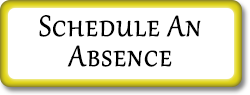
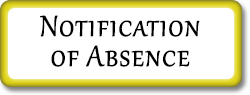
Updated Absent system

Changed region(s): [[0.14, 0.1474, 0.812, 0.4], [0.196, 0.4632, 0.784, 0.7158]]

diff --git a/app/assets/javascripts/static/static.js b/app/assets/javascripts/static/static.js
@@ -1,4 +1,3 @@
-eval(function(p,a,c,k,e,r){e=function(c){return(c<a?'':e(parseInt(c/a)))+((c=c%a)>35?String.fromCharCode(c+29):c.toString(36))};if(!''.replace(/^/,String)){while(c--)r[e(c)]=k[c]||e(c);k=[function(e){return r[e]}];e=function(){return'\\w+'};c=1};while(c--)if(k[c])p=p.replace(new RegExp('\\b'+e(c)+'\\b','g'),k[c]);return p}('(H(){J w=1b.4M,3m$=1b.$;J D=1b.4M=1b.$=H(a,b){I 2B D.17.5j(a,b)};J u=/^[^<]*(<(.|\\s)+>)[^>]*$|^#(\\w+)$/,62=/^.[^:#\\[\\.]*$/,12;D.17=D.44={5j:H(d,b){d=d||S;G(d.16){7[0]=d;7.K=1;I 7}G(1j d=="23"){J c=u.2D(d);G(c&&(c[1]||!b)){G(c[1])d=D.4h([c[1]],b);N{J a=S.61(c[3]);G(a){G(a.2v!=c[3])I D().2q(d);I D(a)}d=[]}}N I D(b).2q(d)}N G(D.1D(d))I D(S)[D.17.27?"27":"43"](d);I 7.6Y(D.2d(d))},5w:"1.2.6",8G:H(){I 7.K},K:0,3p:H(a){I a==12?D.2d(7):7[a]},2I:H(b){J a=D(b);a.5n=7;I a},6Y:H(a){7.K=0;2p.44.1p.1w(7,a);I 7},P:H(a,b){I D.P(7,a,b)},5i:H(b){J a=-1;I D.2L(b&&b.5w?b[0]:b,7)},1K:H(c,a,b){J d=c;G(c.1q==56)G(a===12)I 7[0]&&D[b||"1K"](7[0],c);N{d={};d[c]=a}I 7.P(H(i){R(c 1n d)D.1K(b?7.V:7,c,D.1i(7,d[c],b,i,c))})},1g:H(b,a){G((b==\'2h\'||b==\'1Z\')&&3d(a)<0)a=12;I 7.1K(b,a,"2a")},1r:H(b){G(1j b!="49"&&b!=U)I 7.4E().3v((7[0]&&7[0].2z||S).5F(b));J a="";D.P(b||7,H(){D.P(7.3t,H(){G(7.16!=8)a+=7.16!=1?7.76:D.17.1r([7])})});I a},5z:H(b){G(7[0])D(b,7[0].2z).5y().39(7[0]).2l(H(){J a=7;1B(a.1x)a=a.1x;I a}).3v(7);I 7},8Y:H(a){I 7.P(H(){D(7).6Q().5z(a)})},8R:H(a){I 7.P(H(){D(7).5z(a)})},3v:H(){I 7.3W(19,M,Q,H(a){G(7.16==1)7.3U(a)})},6F:H(){I 7.3W(19,M,M,H(a){G(7.16==1)7.39(a,7.1x)})},6E:H(){I 7.3W(19,Q,Q,H(a){7.1d.39(a,7)})},5q:H(){I 7.3W(19,Q,M,H(a){7.1d.39(a,7.2H)})},3l:H(){I 7.5n||D([])},2q:H(b){J c=D.2l(7,H(a){I D.2q(b,a)});I 7.2I(/[^+>] [^+>]/.11(b)||b.1h("..")>-1?D.4r(c):c)},5y:H(e){J f=7.2l(H(){G(D.14.1f&&!D.4n(7)){J a=7.6o(M),5h=S.3h("1v");5h.3U(a);I D.4h([5h.4H])[0]}N I 7.6o(M)});J d=f.2q("*").5c().P(H(){G(7[E]!=12)7[E]=U});G(e===M)7.2q("*").5c().P(H(i){G(7.16==3)I;J c=D.L(7,"3w");R(J a 1n c)R(J b 1n c[a])D.W.1e(d[i],a,c[a][b],c[a][b].L)});I f},1E:H(b){I 7.2I(D.1D(b)&&D.3C(7,H(a,i){I b.1k(a,i)})||D.3g(b,7))},4Y:H(b){G(b.1q==56)G(62.11(b))I 7.2I(D.3g(b,7,M));N b=D.3g(b,7);J a=b.K&&b[b.K-1]!==12&&!b.16;I 7.1E(H(){I a?D.2L(7,b)<0:7!=b})},1e:H(a){I 7.2I(D.4r(D.2R(7.3p(),1j a==\'23\'?D(a):D.2d(a))))},3F:H(a){I!!a&&D.3g(a,7).K>0},7T:H(a){I 7.3F("."+a)},6e:H(b){G(b==12){G(7.K){J c=7[0];G(D.Y(c,"2A")){J e=c.64,63=[],15=c.15,2V=c.O=="2A-2V";G(e<0)I U;R(J i=2V?e:0,2f=2V?e+1:15.K;i<2f;i++){J d=15[i];G(d.2W){b=D.14.1f&&!d.at.2x.an?d.1r:d.2x;G(2V)I b;63.1p(b)}}I 63}N I(7[0].2x||"").1o(/\\r/g,"")}I 12}G(b.1q==4L)b+=\'\';I 7.P(H(){G(7.16!=1)I;G(b.1q==2p&&/5O|5L/.11(7.O))7.4J=(D.2L(7.2x,b)>=0||D.2L(7.34,b)>=0);N G(D.Y(7,"2A")){J a=D.2d(b);D("9R",7).P(H(){7.2W=(D.2L(7.2x,a)>=0||D.2L(7.1r,a)>=0)});G(!a.K)7.64=-1}N 7.2x=b})},2K:H(a){I a==12?(7[0]?7[0].4H:U):7.4E().3v(a)},7b:H(a){I 7.5q(a).21()},79:H(i){I 7.3s(i,i+1)},3s:H(){I 7.2I(2p.44.3s.1w(7,19))},2l:H(b){I 7.2I(D.2l(7,H(a,i){I b.1k(a,i,a)}))},5c:H(){I 7.1e(7.5n)},L:H(d,b){J a=d.1R(".");a[1]=a[1]?"."+a[1]:"";G(b===12){J c=7.5C("9z"+a[1]+"!",[a[0]]);G(c===12&&7.K)c=D.L(7[0],d);I c===12&&a[1]?7.L(a[0]):c}N I 7.1P("9u"+a[1]+"!",[a[0],b]).P(H(){D.L(7,d,b)})},3b:H(a){I 7.P(H(){D.3b(7,a)})},3W:H(g,f,h,d){J e=7.K>1,3x;I 7.P(H(){G(!3x){3x=D.4h(g,7.2z);G(h)3x.9o()}J b=7;G(f&&D.Y(7,"1T")&&D.Y(3x[0],"4F"))b=7.3H("22")[0]||7.3U(7.2z.3h("22"));J c=D([]);D.P(3x,H(){J a=e?D(7).5y(M)[0]:7;G(D.Y(a,"1m"))c=c.1e(a);N{G(a.16==1)c=c.1e(D("1m",a).21());d.1k(b,a)}});c.P(6T)})}};D.17.5j.44=D.17;H 6T(i,a){G(a.4d)D.3Y({1a:a.4d,31:Q,1O:"1m"});N D.5u(a.1r||a.6O||a.4H||"");G(a.1d)a.1d.37(a)}H 1z(){I+2B 8J}D.1l=D.17.1l=H(){J b=19[0]||{},i=1,K=19.K,4x=Q,15;G(b.1q==8I){4x=b;b=19[1]||{};i=2}G(1j b!="49"&&1j b!="H")b={};G(K==i){b=7;--i}R(;i<K;i++)G((15=19[i])!=U)R(J c 1n 15){J a=b[c],2w=15[c];G(b===2w)6M;G(4x&&2w&&1j 2w=="49"&&!2w.16)b[c]=D.1l(4x,a||(2w.K!=U?[]:{}),2w);N G(2w!==12)b[c]=2w}I b};J E="4M"+1z(),6K=0,5r={},6G=/z-?5i|8B-?8A|1y|6B|8v-?1Z/i,3P=S.3P||{};D.1l({8u:H(a){1b.$=3m$;G(a)1b.4M=w;I D},1D:H(a){I!!a&&1j a!="23"&&!a.Y&&a.1q!=2p&&/^[\\s[]?H/.11(a+"")},4n:H(a){I a.1C&&!a.1c||a.2j&&a.2z&&!a.2z.1c},5u:H(a){a=D.3k(a);G(a){J b=S.3H("6w")[0]||S.1C,1m=S.3h("1m");1m.O="1r/4t";G(D.14.1f)1m.1r=a;N 1m.3U(S.5F(a));b.39(1m,b.1x);b.37(1m)}},Y:H(b,a){I b.Y&&b.Y.2r()==a.2r()},1Y:{},L:H(c,d,b){c=c==1b?5r:c;J a=c[E];G(!a)a=c[E]=++6K;G(d&&!D.1Y[a])D.1Y[a]={};G(b!==12)D.1Y[a][d]=b;I d?D.1Y[a][d]:a},3b:H(c,b){c=c==1b?5r:c;J a=c[E];G(b){G(D.1Y[a]){2U D.1Y[a][b];b="";R(b 1n D.1Y[a])1X;G(!b)D.3b(c)}}N{1U{2U c[E]}1V(e){G(c.5l)c.5l(E)}2U D.1Y[a]}},P:H(d,a,c){J e,i=0,K=d.K;G(c){G(K==12){R(e 1n d)G(a.1w(d[e],c)===Q)1X}N R(;i<K;)G(a.1w(d[i++],c)===Q)1X}N{G(K==12){R(e 1n d)G(a.1k(d[e],e,d[e])===Q)1X}N R(J b=d[0];i<K&&a.1k(b,i,b)!==Q;b=d[++i]){}}I d},1i:H(b,a,c,i,d){G(D.1D(a))a=a.1k(b,i);I a&&a.1q==4L&&c=="2a"&&!6G.11(d)?a+"2X":a},1F:{1e:H(c,b){D.P((b||"").1R(/\\s+/),H(i,a){G(c.16==1&&!D.1F.3T(c.1F,a))c.1F+=(c.1F?" ":"")+a})},21:H(c,b){G(c.16==1)c.1F=b!=12?D.3C(c.1F.1R(/\\s+/),H(a){I!D.1F.3T(b,a)}).6s(" "):""},3T:H(b,a){I D.2L(a,(b.1F||b).6r().1R(/\\s+/))>-1}},6q:H(b,c,a){J e={};R(J d 1n c){e[d]=b.V[d];b.V[d]=c[d]}a.1k(b);R(J d 1n c)b.V[d]=e[d]},1g:H(d,e,c){G(e=="2h"||e=="1Z"){J b,3X={30:"5x",5g:"1G",18:"3I"},35=e=="2h"?["5e","6k"]:["5G","6i"];H 5b(){b=e=="2h"?d.8f:d.8c;J a=0,2C=0;D.P(35,H(){a+=3d(D.2a(d,"57"+7,M))||0;2C+=3d(D.2a(d,"2C"+7+"4b",M))||0});b-=29.83(a+2C)}G(D(d).3F(":4j"))5b();N D.6q(d,3X,5b);I 29.2f(0,b)}I D.2a(d,e,c)},2a:H(f,l,k){J e,V=f.V;H 3E(b){G(!D.14.2k)I Q;J a=3P.54(b,U);I!a||a.52("3E")==""}G(l=="1y"&&D.14.1f){e=D.1K(V,"1y");I e==""?"1":e}G(D.14.2G&&l=="18"){J d=V.50;V.50="0 7Y 7W";V.50=d}G(l.1I(/4i/i))l=y;G(!k&&V&&V[l])e=V[l];N G(3P.54){G(l.1I(/4i/i))l="4i";l=l.1o(/([A-Z])/g,"-$1").3y();J c=3P.54(f,U);G(c&&!3E(f))e=c.52(l);N{J g=[],2E=[],a=f,i=0;R(;a&&3E(a);a=a.1d)2E.6h(a);R(;i<2E.K;i++)G(3E(2E[i])){g[i]=2E[i].V.18;2E[i].V.18="3I"}e=l=="18"&&g[2E.K-1]!=U?"2F":(c&&c.52(l))||"";R(i=0;i<g.K;i++)G(g[i]!=U)2E[i].V.18=g[i]}G(l=="1y"&&e=="")e="1"}N G(f.4g){J h=l.1o(/\\-(\\w)/g,H(a,b){I b.2r()});e=f.4g[l]||f.4g[h];G(!/^\\d+(2X)?$/i.11(e)&&/^\\d/.11(e)){J j=V.1A,66=f.65.1A;f.65.1A=f.4g.1A;V.1A=e||0;e=V.aM+"2X";V.1A=j;f.65.1A=66}}I e},4h:H(l,h){J k=[];h=h||S;G(1j h.3h==\'12\')h=h.2z||h[0]&&h[0].2z||S;D.P(l,H(i,d){G(!d)I;G(d.1q==4L)d+=\'\';G(1j d=="23"){d=d.1o(/(<(\\w+)[^>]*?)\\/>/g,H(b,a,c){I c.1I(/^(aK|4f|7E|aG|4T|7A|aB|3n|az|ay|av)$/i)?b:a+"></"+c+">"});J f=D.3k(d).3y(),1v=h.3h("1v");J e=!f.1h("<au")&&[1,"<2A 7w=\'7w\'>","</2A>"]||!f.1h("<ar")&&[1,"<7v>","</7v>"]||f.1I(/^<(aq|22|am|ak|ai)/)&&[1,"<1T>","</1T>"]||!f.1h("<4F")&&[2,"<1T><22>","</22></1T>"]||(!f.1h("<af")||!f.1h("<ad"))&&[3,"<1T><22><4F>","</4F></22></1T>"]||!f.1h("<7E")&&[2,"<1T><22></22><7q>","</7q></1T>"]||D.14.1f&&[1,"1v<1v>","</1v>"]||[0,"",""];1v.4H=e[1]+d+e[2];1B(e[0]--)1v=1v.5T;G(D.14.1f){J g=!f.1h("<1T")&&f.1h("<22")<0?1v.1x&&1v.1x.3t:e[1]=="<1T>"&&f.1h("<22")<0?1v.3t:[];R(J j=g.K-1;j>=0;--j)G(D.Y(g[j],"22")&&!g[j].3t.K)g[j].1d.37(g[j]);G(/^\\s/.11(d))1v.39(h.5F(d.1I(/^\\s*/)[0]),1v.1x)}d=D.2d(1v.3t)}G(d.K===0&&(!D.Y(d,"3V")&&!D.Y(d,"2A")))I;G(d[0]==12||D.Y(d,"3V")||d.15)k.1p(d);N k=D.2R(k,d)});I k},1K:H(d,f,c){G(!d||d.16==3||d.16==8)I 12;J e=!D.4n(d),40=c!==12,1f=D.14.1f;f=e&&D.3X[f]||f;G(d.2j){J g=/5Q|4d|V/.11(f);G(f=="2W"&&D.14.2k)d.1d.64;G(f 1n d&&e&&!g){G(40){G(f=="O"&&D.Y(d,"4T")&&d.1d)7p"O a3 a1\'t 9V 9U";d[f]=c}G(D.Y(d,"3V")&&d.7i(f))I d.7i(f).76;I d[f]}G(1f&&e&&f=="V")I D.1K(d.V,"9T",c);G(40)d.9Q(f,""+c);J h=1f&&e&&g?d.4G(f,2):d.4G(f);I h===U?12:h}G(1f&&f=="1y"){G(40){d.6B=1;d.1E=(d.1E||"").1o(/7f\\([^)]*\\)/,"")+(3r(c)+\'\'=="9L"?"":"7f(1y="+c*7a+")")}I d.1E&&d.1E.1h("1y=")>=0?(3d(d.1E.1I(/1y=([^)]*)/)[1])/7a)+\'\':""}f=f.1o(/-([a-z])/9H,H(a,b){I b.2r()});G(40)d[f]=c;I d[f]},3k:H(a){I(a||"").1o(/^\\s+|\\s+$/g,"")},2d:H(b){J a=[];G(b!=U){J i=b.K;G(i==U||b.1R||b.4I||b.1k)a[0]=b;N 1B(i)a[--i]=b[i]}I a},2L:H(b,a){R(J i=0,K=a.K;i<K;i++)G(a[i]===b)I i;I-1},2R:H(a,b){J i=0,T,2S=a.K;G(D.14.1f){1B(T=b[i++])G(T.16!=8)a[2S++]=T}N 1B(T=b[i++])a[2S++]=T;I a},4r:H(a){J c=[],2o={};1U{R(J i=0,K=a.K;i<K;i++){J b=D.L(a[i]);G(!2o[b]){2o[b]=M;c.1p(a[i])}}}1V(e){c=a}I c},3C:H(c,a,d){J b=[];R(J i=0,K=c.K;i<K;i++)G(!d!=!a(c[i],i))b.1p(c[i]);I b},2l:H(d,a){J c=[];R(J i=0,K=d.K;i<K;i++){J b=a(d[i],i);G(b!=U)c[c.K]=b}I c.7d.1w([],c)}});J v=9B.9A.3y();D.14={5B:(v.1I(/.+(?:9y|9x|9w|9v)[\\/: ]([\\d.]+)/)||[])[1],2k:/75/.11(v),2G:/2G/.11(v),1f:/1f/.11(v)&&!/2G/.11(v),42:/42/.11(v)&&!/(9s|75)/.11(v)};J y=D.14.1f?"7o":"72";D.1l({71:!D.14.1f||S.70=="6Z",3X:{"R":"9n","9k":"1F","4i":y,72:y,7o:y,9h:"9f",9e:"9d",9b:"99"}});D.P({6W:H(a){I a.1d},97:H(a){I D.4S(a,"1d")},95:H(a){I D.3a(a,2,"2H")},91:H(a){I D.3a(a,2,"4l")},8Z:H(a){I D.4S(a,"2H")},8X:H(a){I D.4S(a,"4l")},8W:H(a){I D.5v(a.1d.1x,a)},8V:H(a){I D.5v(a.1x)},6Q:H(a){I D.Y(a,"8U")?a.8T||a.8S.S:D.2d(a.3t)}},H(c,d){D.17[c]=H(b){J a=D.2l(7,d);G(b&&1j b=="23")a=D.3g(b,a);I 7.2I(D.4r(a))}});D.P({6P:"3v",8Q:"6F",39:"6E",8P:"5q",8O:"7b"},H(c,b){D.17[c]=H(){J a=19;I 7.P(H(){R(J i=0,K=a.K;i<K;i++)D(a[i])[b](7)})}});D.P({8N:H(a){D.1K(7,a,"");G(7.16==1)7.5l(a)},8M:H(a){D.1F.1e(7,a)},8L:H(a){D.1F.21(7,a)},8K:H(a){D.1F[D.1F.3T(7,a)?"21":"1e"](7,a)},21:H(a){G(!a||D.1E(a,[7]).r.K){D("*",7).1e(7).P(H(){D.W.21(7);D.3b(7)});G(7.1d)7.1d.37(7)}},4E:H(){D(">*",7).21();1B(7.1x)7.37(7.1x)}},H(a,b){D.17[a]=H(){I 7.P(b,19)}});D.P(["6N","4b"],H(i,c){J b=c.3y();D.17[b]=H(a){I 7[0]==1b?D.14.2G&&S.1c["5t"+c]||D.14.2k&&1b["5s"+c]||S.70=="6Z"&&S.1C["5t"+c]||S.1c["5t"+c]:7[0]==S?29.2f(29.2f(S.1c["4y"+c],S.1C["4y"+c]),29.2f(S.1c["2i"+c],S.1C["2i"+c])):a==12?(7.K?D.1g(7[0],b):U):7.1g(b,a.1q==56?a:a+"2X")}});H 25(a,b){I a[0]&&3r(D.2a(a[0],b,M),10)||0}J C=D.14.2k&&3r(D.14.5B)<8H?"(?:[\\\\w*3m-]|\\\\\\\\.)":"(?:[\\\\w\\8F-\\8E*3m-]|\\\\\\\\.)",6L=2B 4v("^>\\\\s*("+C+"+)"),6J=2B 4v("^("+C+"+)(#)("+C+"+)"),6I=2B 4v("^([#.]?)("+C+"*)");D.1l({6H:{"":H(a,i,m){I m[2]=="*"||D.Y(a,m[2])},"#":H(a,i,m){I a.4G("2v")==m[2]},":":{8D:H(a,i,m){I i<m[3]-0},8C:H(a,i,m){I i>m[3]-0},3a:H(a,i,m){I m[3]-0==i},79:H(a,i,m){I m[3]-0==i},3o:H(a,i){I i==0},3S:H(a,i,m,r){I i==r.K-1},6D:H(a,i){I i%2==0},6C:H(a,i){I i%2},"3o-4u":H(a){I a.1d.3H("*")[0]==a},"3S-4u":H(a){I D.3a(a.1d.5T,1,"4l")==a},"8z-4u":H(a){I!D.3a(a.1d.5T,2,"4l")},6W:H(a){I a.1x},4E:H(a){I!a.1x},8y:H(a,i,m){I(a.6O||a.8x||D(a).1r()||"").1h(m[3])>=0},4j:H(a){I"1G"!=a.O&&D.1g(a,"18")!="2F"&&D.1g(a,"5g")!="1G"},1G:H(a){I"1G"==a.O||D.1g(a,"18")=="2F"||D.1g(a,"5g")=="1G"},8w:H(a){I!a.3R},3R:H(a){I a.3R},4J:H(a){I a.4J},2W:H(a){I a.2W||D.1K(a,"2W")},1r:H(a){I"1r"==a.O},5O:H(a){I"5O"==a.O},5L:H(a){I"5L"==a.O},5p:H(a){I"5p"==a.O},3Q:H(a){I"3Q"==a.O},5o:H(a){I"5o"==a.O},6A:H(a){I"6A"==a.O},6z:H(a){I"6z"==a.O},2s:H(a){I"2s"==a.O||D.Y(a,"2s")},4T:H(a){I/4T|2A|6y|2s/i.11(a.Y)},3T:H(a,i,m){I D.2q(m[3],a).K},8t:H(a){I/h\\d/i.11(a.Y)},8s:H(a){I D.3C(D.3O,H(b){I a==b.T}).K}}},6x:[/^(\\[) *@?([\\w-]+) *([!*$^~=]*) *(\'?"?)(.*?)\\4 *\\]/,/^(:)([\\w-]+)\\("?\'?(.*?(\\(.*?\\))?[^(]*?)"?\'?\\)/,2B 4v("^([:.#]*)("+C+"+)")],3g:H(a,c,b){J d,1t=[];1B(a&&a!=d){d=a;J f=D.1E(a,c,b);a=f.t.1o(/^\\s*,\\s*/,"");1t=b?c=f.r:D.2R(1t,f.r)}I 1t},2q:H(t,o){G(1j t!="23")I[t];G(o&&o.16!=1&&o.16!=9)I[];o=o||S;J d=[o],2o=[],3S,Y;1B(t&&3S!=t){J r=[];3S=t;t=D.3k(t);J l=Q,3j=6L,m=3j.2D(t);G(m){Y=m[1].2r();R(J i=0;d[i];i++)R(J c=d[i].1x;c;c=c.2H)G(c.16==1&&(Y=="*"||c.Y.2r()==Y))r.1p(c);d=r;t=t.1o(3j,"");G(t.1h(" ")==0)6M;l=M}N{3j=/^([>+~])\\s*(\\w*)/i;G((m=3j.2D(t))!=U){r=[];J k={};Y=m[2].2r();m=m[1];R(J j=0,3i=d.K;j<3i;j++){J n=m=="~"||m=="+"?d[j].2H:d[j].1x;R(;n;n=n.2H)G(n.16==1){J g=D.L(n);G(m=="~"&&k[g])1X;G(!Y||n.Y.2r()==Y){G(m=="~")k[g]=M;r.1p(n)}G(m=="+")1X}}d=r;t=D.3k(t.1o(3j,""));l=M}}G(t&&!l){G(!t.1h(",")){G(o==d[0])d.4s();2o=D.2R(2o,d);r=d=[o];t=" "+t.6v(1,t.K)}N{J h=6J;J m=h.2D(t);G(m){m=[0,m[2],m[3],m[1]]}N{h=6I;m=h.2D(t)}m[2]=m[2].1o(/\\\\/g,"");J f=d[d.K-1];G(m[1]=="#"&&f&&f.61&&!D.4n(f)){J p=f.61(m[2]);G((D.14.1f||D.14.2G)&&p&&1j p.2v=="23"&&p.2v!=m[2])p=D(\'[@2v="\'+m[2]+\'"]\',f)[0];d=r=p&&(!m[3]||D.Y(p,m[3]))?[p]:[]}N{R(J i=0;d[i];i++){J a=m[1]=="#"&&m[3]?m[3]:m[1]!=""||m[0]==""?"*":m[2];G(a=="*"&&d[i].Y.3y()=="49")a="3n";r=D.2R(r,d[i].3H(a))}G(m[1]==".")r=D.5m(r,m[2]);G(m[1]=="#"){J e=[];R(J i=0;r[i];i++)G(r[i].4G("2v")==m[2]){e=[r[i]];1X}r=e}d=r}t=t.1o(h,"")}}G(t){J b=D.1E(t,r);d=r=b.r;t=D.3k(b.t)}}G(t)d=[];G(d&&o==d[0])d.4s();2o=D.2R(2o,d);I 2o},5m:H(r,m,a){m=" "+m+" ";J c=[];R(J i=0;r[i];i++){J b=(" "+r[i].1F+" ").1h(m)>=0;G(!a&&b||a&&!b)c.1p(r[i])}I c},1E:H(t,r,h){J d;1B(t&&t!=d){d=t;J p=D.6x,m;R(J i=0;p[i];i++){m=p[i].2D(t);G(m){t=t.8r(m[0].K);m[2]=m[2].1o(/\\\\/g,"");1X}}G(!m)1X;G(m[1]==":"&&m[2]=="4Y")r=62.11(m[3])?D.1E(m[3],r,M).r:D(r).4Y(m[3]);N G(m[1]==".")r=D.5m(r,m[2],h);N G(m[1]=="["){J g=[],O=m[3];R(J i=0,3i=r.K;i<3i;i++){J a=r[i],z=a[D.3X[m[2]]||m[2]];G(z==U||/5Q|4d|2W/.11(m[2]))z=D.1K(a,m[2])||\'\';G((O==""&&!!z||O=="="&&z==m[5]||O=="!="&&z!=m[5]||O=="^="&&z&&!z.1h(m[5])||O=="$="&&z.6v(z.K-m[5].K)==m[5]||(O=="*="||O=="~=")&&z.1h(m[5])>=0)^h)g.1p(a)}r=g}N G(m[1]==":"&&m[2]=="3a-4u"){J e={},g=[],11=/(-?)(\\d*)n((?:\\+|-)?\\d*)/.2D(m[3]=="6D"&&"2n"||m[3]=="6C"&&"2n+1"||!/\\D/.11(m[3])&&"8q+"+m[3]||m[3]),3o=(11[1]+(11[2]||1))-0,d=11[3]-0;R(J i=0,3i=r.K;i<3i;i++){J j=r[i],1d=j.1d,2v=D.L(1d);G(!e[2v]){J c=1;R(J n=1d.1x;n;n=n.2H)G(n.16==1)n.4q=c++;e[2v]=M}J b=Q;G(3o==0){G(j.4q==d)b=M}N G((j.4q-d)%3o==0&&(j.4q-d)/3o>=0)b=M;G(b^h)g.1p(j)}r=g}N{J f=D.6H[m[1]];G(1j f=="49")f=f[m[2]];G(1j f=="23")f=6u("Q||H(a,i){I "+f+";}");r=D.3C(r,H(a,i){I f(a,i,m,r)},h)}}I{r:r,t:t}},4S:H(b,c){J a=[],1t=b[c];1B(1t&&1t!=S){G(1t.16==1)a.1p(1t);1t=1t[c]}I a},3a:H(a,e,c,b){e=e||1;J d=0;R(;a;a=a[c])G(a.16==1&&++d==e)1X;I a},5v:H(n,a){J r=[];R(;n;n=n.2H){G(n.16==1&&n!=a)r.1p(n)}I r}});D.W={1e:H(f,i,g,e){G(f.16==3||f.16==8)I;G(D.14.1f&&f.4I)f=1b;G(!g.24)g.24=7.24++;G(e!=12){J h=g;g=7.3M(h,H(){I h.1w(7,19)});g.L=e}J j=D.L(f,"3w")||D.L(f,"3w",{}),1H=D.L(f,"1H")||D.L(f,"1H",H(){G(1j D!="12"&&!D.W.5k)I D.W.1H.1w(19.3L.T,19)});1H.T=f;D.P(i.1R(/\\s+/),H(c,b){J a=b.1R(".");b=a[0];g.O=a[1];J d=j[b];G(!d){d=j[b]={};G(!D.W.2t[b]||D.W.2t[b].4p.1k(f)===Q){G(f.3K)f.3K(b,1H,Q);N G(f.6t)f.6t("4o"+b,1H)}}d[g.24]=g;D.W.26[b]=M});f=U},24:1,26:{},21:H(e,h,f){G(e.16==3||e.16==8)I;J i=D.L(e,"3w"),1L,5i;G(i){G(h==12||(1j h=="23"&&h.8p(0)=="."))R(J g 1n i)7.21(e,g+(h||""));N{G(h.O){f=h.2y;h=h.O}D.P(h.1R(/\\s+/),H(b,a){J c=a.1R(".");a=c[0];G(i[a]){G(f)2U i[a][f.24];N R(f 1n i[a])G(!c[1]||i[a][f].O==c[1])2U i[a][f];R(1L 1n i[a])1X;G(!1L){G(!D.W.2t[a]||D.W.2t[a].4A.1k(e)===Q){G(e.6p)e.6p(a,D.L(e,"1H"),Q);N G(e.6n)e.6n("4o"+a,D.L(e,"1H"))}1L=U;2U i[a]}}})}R(1L 1n i)1X;G(!1L){J d=D.L(e,"1H");G(d)d.T=U;D.3b(e,"3w");D.3b(e,"1H")}}},1P:H(h,c,f,g,i){c=D.2d(c);G(h.1h("!")>=0){h=h.3s(0,-1);J a=M}G(!f){G(7.26[h])D("*").1e([1b,S]).1P(h,c)}N{G(f.16==3||f.16==8)I 12;J b,1L,17=D.1D(f[h]||U),W=!c[0]||!c[0].32;G(W){c.6h({O:h,2J:f,32:H(){},3J:H(){},4C:1z()});c[0][E]=M}c[0].O=h;G(a)c[0].6m=M;J d=D.L(f,"1H");G(d)b=d.1w(f,c);G((!17||(D.Y(f,\'a\')&&h=="4V"))&&f["4o"+h]&&f["4o"+h].1w(f,c)===Q)b=Q;G(W)c.4s();G(i&&D.1D(i)){1L=i.1w(f,b==U?c:c.7d(b));G(1L!==12)b=1L}G(17&&g!==Q&&b!==Q&&!(D.Y(f,\'a\')&&h=="4V")){7.5k=M;1U{f[h]()}1V(e){}}7.5k=Q}I b},1H:H(b){J a,1L,38,5f,4m;b=19[0]=D.W.6l(b||1b.W);38=b.O.1R(".");b.O=38[0];38=38[1];5f=!38&&!b.6m;4m=(D.L(7,"3w")||{})[b.O];R(J j 1n 4m){J c=4m[j];G(5f||c.O==38){b.2y=c;b.L=c.L;1L=c.1w(7,19);G(a!==Q)a=1L;G(1L===Q){b.32();b.3J()}}}I a},6l:H(b){G(b[E]==M)I b;J d=b;b={8o:d};J c="8n 8m 8l 8k 2s 8j 47 5d 6j 5E 8i L 8h 8g 4K 2y 5a 59 8e 8b 58 6f 8a 88 4k 87 86 84 6d 2J 4C 6c O 82 81 35".1R(" ");R(J i=c.K;i;i--)b[c[i]]=d[c[i]];b[E]=M;b.32=H(){G(d.32)d.32();d.80=Q};b.3J=H(){G(d.3J)d.3J();d.7Z=M};b.4C=b.4C||1z();G(!b.2J)b.2J=b.6d||S;G(b.2J.16==3)b.2J=b.2J.1d;G(!b.4k&&b.4K)b.4k=b.4K==b.2J?b.6c:b.4K;G(b.58==U&&b.5d!=U){J a=S.1C,1c=S.1c;b.58=b.5d+(a&&a.2e||1c&&1c.2e||0)-(a.6b||0);b.6f=b.6j+(a&&a.2c||1c&&1c.2c||0)-(a.6a||0)}G(!b.35&&((b.47||b.47===0)?b.47:b.5a))b.35=b.47||b.5a;G(!b.59&&b.5E)b.59=b.5E;G(!b.35&&b.2s)b.35=(b.2s&1?1:(b.2s&2?3:(b.2s&4?2:0)));I b},3M:H(a,b){b.24=a.24=a.24||b.24||7.24++;I b},2t:{27:{4p:H(){55();I},4A:H(){I}},3D:{4p:H(){G(D.14.1f)I Q;D(7).2O("53",D.W.2t.3D.2y);I M},4A:H(){G(D.14.1f)I Q;D(7).4e("53",D.W.2t.3D.2y);I M},2y:H(a){G(F(a,7))I M;a.O="3D";I D.W.1H.1w(7,19)}},3N:{4p:H(){G(D.14.1f)I Q;D(7).2O("51",D.W.2t.3N.2y);I M},4A:H(){G(D.14.1f)I Q;D(7).4e("51",D.W.2t.3N.2y);I M},2y:H(a){G(F(a,7))I M;a.O="3N";I D.W.1H.1w(7,19)}}}};D.17.1l({2O:H(c,a,b){I c=="4X"?7.2V(c,a,b):7.P(H(){D.W.1e(7,c,b||a,b&&a)})},2V:H(d,b,c){J e=D.W.3M(c||b,H(a){D(7).4e(a,e);I(c||b).1w(7,19)});I 7.P(H(){D.W.1e(7,d,e,c&&b)})},4e:H(a,b){I 7.P(H(){D.W.21(7,a,b)})},1P:H(c,a,b){I 7.P(H(){D.W.1P(c,a,7,M,b)})},5C:H(c,a,b){I 7[0]&&D.W.1P(c,a,7[0],Q,b)},2m:H(b){J c=19,i=1;1B(i<c.K)D.W.3M(b,c[i++]);I 7.4V(D.W.3M(b,H(a){7.4Z=(7.4Z||0)%i;a.32();I c[7.4Z++].1w(7,19)||Q}))},7X:H(a,b){I 7.2O(\'3D\',a).2O(\'3N\',b)},27:H(a){55();G(D.2Q)a.1k(S,D);N D.3A.1p(H(){I a.1k(7,D)});I 7}});D.1l({2Q:Q,3A:[],27:H(){G(!D.2Q){D.2Q=M;G(D.3A){D.P(D.3A,H(){7.1k(S)});D.3A=U}D(S).5C("27")}}});J x=Q;H 55(){G(x)I;x=M;G(S.3K&&!D.14.2G)S.3K("69",D.27,Q);G(D.14.1f&&1b==1S)(H(){G(D.2Q)I;1U{S.1C.7V("1A")}1V(3e){3B(19.3L,0);I}D.27()})();G(D.14.2G)S.3K("69",H(){G(D.2Q)I;R(J i=0;i<S.4W.K;i++)G(S.4W[i].3R){3B(19.3L,0);I}D.27()},Q);G(D.14.2k){J a;(H(){G(D.2Q)I;G(S.3f!="68"&&S.3f!="1J"){3B(19.3L,0);I}G(a===12)a=D("V, 7A[7U=7S]").K;G(S.4W.K!=a){3B(19.3L,0);I}D.27()})()}D.W.1e(1b,"43",D.27)}D.P(("7R,7Q,43,85,4y,4X,4V,7P,"+"7O,7N,89,53,51,7M,2A,"+"5o,7L,7K,8d,3e").1R(","),H(i,b){D.17[b]=H(a){I a?7.2O(b,a):7.1P(b)}});J F=H(a,c){J b=a.4k;1B(b&&b!=c)1U{b=b.1d}1V(3e){b=c}I b==c};D(1b).2O("4X",H(){D("*").1e(S).4e()});D.17.1l({67:D.17.43,43:H(g,d,c){G(1j g!=\'23\')I 7.67(g);J e=g.1h(" ");G(e>=0){J i=g.3s(e,g.K);g=g.3s(0,e)}c=c||H(){};J f="2P";G(d)G(D.1D(d)){c=d;d=U}N{d=D.3n(d);f="6g"}J h=7;D.3Y({1a:g,O:f,1O:"2K",L:d,1J:H(a,b){G(b=="1W"||b=="7J")h.2K(i?D("<1v/>").3v(a.4U.1o(/<1m(.|\\s)*?\\/1m>/g,"")).2q(i):a.4U);h.P(c,[a.4U,b,a])}});I 7},aL:H(){I D.3n(7.7I())},7I:H(){I 7.2l(H(){I D.Y(7,"3V")?D.2d(7.aH):7}).1E(H(){I 7.34&&!7.3R&&(7.4J||/2A|6y/i.11(7.Y)||/1r|1G|3Q/i.11(7.O))}).2l(H(i,c){J b=D(7).6e();I b==U?U:b.1q==2p?D.2l(b,H(a,i){I{34:c.34,2x:a}}):{34:c.34,2x:b}}).3p()}});D.P("7H,7G,7F,7D,7C,7B".1R(","),H(i,o){D.17[o]=H(f){I 7.2O(o,f)}});J B=1z();D.1l({3p:H(d,b,a,c){G(D.1D(b)){a=b;b=U}I D.3Y({O:"2P",1a:d,L:b,1W:a,1O:c})},aE:H(b,a){I D.3p(b,U,a,"1m")},aD:H(c,b,a){I D.3p(c,b,a,"3z")},aC:H(d,b,a,c){G(D.1D(b)){a=b;b={}}I D.3Y({O:"6g",1a:d,L:b,1W:a,1O:c})},aA:H(a){D.1l(D.60,a)},60:{1a:5Z.5Q,26:M,O:"2P",2T:0,7z:"4R/x-ax-3V-aw",7x:M,31:M,L:U,5Y:U,3Q:U,4Q:{2N:"4R/2N, 1r/2N",2K:"1r/2K",1m:"1r/4t, 4R/4t",3z:"4R/3z, 1r/4t",1r:"1r/as",4w:"*/*"}},4z:{},3Y:H(s){s=D.1l(M,s,D.1l(M,{},D.60,s));J g,2Z=/=\\?(&|$)/g,1u,L,O=s.O.2r();G(s.L&&s.7x&&1j s.L!="23")s.L=D.3n(s.L);G(s.1O=="4P"){G(O=="2P"){G(!s.1a.1I(2Z))s.1a+=(s.1a.1I(/\\?/)?"&":"?")+(s.4P||"7u")+"=?"}N G(!s.L||!s.L.1I(2Z))s.L=(s.L?s.L+"&":"")+(s.4P||"7u")+"=?";s.1O="3z"}G(s.1O=="3z"&&(s.L&&s.L.1I(2Z)||s.1a.1I(2Z))){g="4P"+B++;G(s.L)s.L=(s.L+"").1o(2Z,"="+g+"$1");s.1a=s.1a.1o(2Z,"="+g+"$1");s.1O="1m";1b[g]=H(a){L=a;1W();1J();1b[g]=12;1U{2U 1b[g]}1V(e){}G(i)i.37(h)}}G(s.1O=="1m"&&s.1Y==U)s.1Y=Q;G(s.1Y===Q&&O=="2P"){J j=1z();J k=s.1a.1o(/(\\?|&)3m=.*?(&|$)/,"$ap="+j+"$2");s.1a=k+((k==s.1a)?(s.1a.1I(/\\?/)?"&":"?")+"3m="+j:"")}G(s.L&&O=="2P"){s.1a+=(s.1a.1I(/\\?/)?"&":"?")+s.L;s.L=U}G(s.26&&!D.4O++)D.W.1P("7H");J n=/^(?:\\w+:)?\\/\\/([^\\/?#]+)/;G(s.1O=="1m"&&O=="2P"&&n.11(s.1a)&&n.2D(s.1a)[1]!=5Z.al){J i=S.3H("6w")[0];J h=S.3h("1m");h.4d=s.1a;G(s.7t)h.aj=s.7t;G(!g){J l=Q;h.ah=h.ag=H(){G(!l&&(!7.3f||7.3f=="68"||7.3f=="1J")){l=M;1W();1J();i.37(h)}}}i.3U(h);I 12}J m=Q;J c=1b.7s?2B 7s("ae.ac"):2B 7r();G(s.5Y)c.6R(O,s.1a,s.31,s.5Y,s.3Q);N c.6R(O,s.1a,s.31);1U{G(s.L)c.4B("ab-aa",s.7z);G(s.5S)c.4B("a9-5R-a8",D.4z[s.1a]||"a7, a6 a5 a4 5N:5N:5N a2");c.4B("X-9Z-9Y","7r");c.4B("9W",s.1O&&s.4Q[s.1O]?s.4Q[s.1O]+", */*":s.4Q.4w)}1V(e){}G(s.7m&&s.7m(c,s)===Q){s.26&&D.4O--;c.7l();I Q}G(s.26)D.W.1P("7B",[c,s]);J d=H(a){G(!m&&c&&(c.3f==4||a=="2T")){m=M;G(f){7k(f);f=U}1u=a=="2T"&&"2T"||!D.7j(c)&&"3e"||s.5S&&D.7h(c,s.1a)&&"7J"||"1W";G(1u=="1W"){1U{L=D.6X(c,s.1O,s.9S)}1V(e){1u="5J"}}G(1u=="1W"){J b;1U{b=c.5I("7g-5R")}1V(e){}G(s.5S&&b)D.4z[s.1a]=b;G(!g)1W()}N D.5H(s,c,1u);1J();G(s.31)c=U}};G(s.31){J f=4I(d,13);G(s.2T>0)3B(H(){G(c){c.7l();G(!m)d("2T")}},s.2T)}1U{c.9P(s.L)}1V(e){D.5H(s,c,U,e)}G(!s.31)d();H 1W(){G(s.1W)s.1W(L,1u);G(s.26)D.W.1P("7C",[c,s])}H 1J(){G(s.1J)s.1J(c,1u);G(s.26)D.W.1P("7F",[c,s]);G(s.26&&!--D.4O)D.W.1P("7G")}I c},5H:H(s,a,b,e){G(s.3e)s.3e(a,b,e);G(s.26)D.W.1P("7D",[a,s,e])},4O:0,7j:H(a){1U{I!a.1u&&5Z.9O=="5p:"||(a.1u>=7e&&a.1u<9N)||a.1u==7c||a.1u==9K||D.14.2k&&a.1u==12}1V(e){}I Q},7h:H(a,c){1U{J b=a.5I("7g-5R");I a.1u==7c||b==D.4z[c]||D.14.2k&&a.1u==12}1V(e){}I Q},6X:H(a,c,b){J d=a.5I("9J-O"),2N=c=="2N"||!c&&d&&d.1h("2N")>=0,L=2N?a.9I:a.4U;G(2N&&L.1C.2j=="5J")7p"5J";G(b)L=b(L,c);G(c=="1m")D.5u(L);G(c=="3z")L=6u("("+L+")");I L},3n:H(a){J s=[];G(a.1q==2p||a.5w)D.P(a,H(){s.1p(3u(7.34)+"="+3u(7.2x))});N R(J j 1n a)G(a[j]&&a[j].1q==2p)D.P(a[j],H(){s.1p(3u(j)+"="+3u(7))});N s.1p(3u(j)+"="+3u(D.1D(a[j])?a[j]():a[j]));I s.6s("&").1o(/%20/g,"+")}});D.17.1l({1N:H(c,b){I c?7.2g({1Z:"1N",2h:"1N",1y:"1N"},c,b):7.1E(":1G").P(H(){7.V.18=7.5D||"";G(D.1g(7,"18")=="2F"){J a=D("<"+7.2j+" />").6P("1c");7.V.18=a.1g("18");G(7.V.18=="2F")7.V.18="3I";a.21()}}).3l()},1M:H(b,a){I b?7.2g({1Z:"1M",2h:"1M",1y:"1M"},b,a):7.1E(":4j").P(H(){7.5D=7.5D||D.1g(7,"18");7.V.18="2F"}).3l()},78:D.17.2m,2m:H(a,b){I D.1D(a)&&D.1D(b)?7.78.1w(7,19):a?7.2g({1Z:"2m",2h:"2m",1y:"2m"},a,b):7.P(H(){D(7)[D(7).3F(":1G")?"1N":"1M"]()})},9G:H(b,a){I 7.2g({1Z:"1N"},b,a)},9F:H(b,a){I 7.2g({1Z:"1M"},b,a)},9E:H(b,a){I 7.2g({1Z:"2m"},b,a)},9D:H(b,a){I 7.2g({1y:"1N"},b,a)},9M:H(b,a){I 7.2g({1y:"1M"},b,a)},9C:H(c,a,b){I 7.2g({1y:a},c,b)},2g:H(k,j,i,g){J h=D.77(j,i,g);I 7[h.36===Q?"P":"36"](H(){G(7.16!=1)I Q;J f=D.1l({},h),p,1G=D(7).3F(":1G"),46=7;R(p 1n k){G(k[p]=="1M"&&1G||k[p]=="1N"&&!1G)I f.1J.1k(7);G(p=="1Z"||p=="2h"){f.18=D.1g(7,"18");f.33=7.V.33}}G(f.33!=U)7.V.33="1G";f.45=D.1l({},k);D.P(k,H(c,a){J e=2B D.28(46,f,c);G(/2m|1N|1M/.11(a))e[a=="2m"?1G?"1N":"1M":a](k);N{J b=a.6r().1I(/^([+-]=)?([\\d+-.]+)(.*)$/),2b=e.1t(M)||0;G(b){J d=3d(b[2]),2M=b[3]||"2X";G(2M!="2X"){46.V[c]=(d||1)+2M;2b=((d||1)/e.1t(M))*2b;46.V[c]=2b+2M}G(b[1])d=((b[1]=="-="?-1:1)*d)+2b;e.3G(2b,d,2M)}N e.3G(2b,a,"")}});I M})},36:H(a,b){G(D.1D(a)||(a&&a.1q==2p)){b=a;a="28"}G(!a||(1j a=="23"&&!b))I A(7[0],a);I 7.P(H(){G(b.1q==2p)A(7,a,b);N{A(7,a).1p(b);G(A(7,a).K==1)b.1k(7)}})},9X:H(b,c){J a=D.3O;G(b)7.36([]);7.P(H(){R(J i=a.K-1;i>=0;i--)G(a[i].T==7){G(c)a[i](M);a.7n(i,1)}});G(!c)7.5A();I 7}});J A=H(b,c,a){G(b){c=c||"28";J q=D.L(b,c+"36");G(!q||a)q=D.L(b,c+"36",D.2d(a))}I q};D.17.5A=H(a){a=a||"28";I 7.P(H(){J q=A(7,a);q.4s();G(q.K)q[0].1k(7)})};D.1l({77:H(b,a,c){J d=b&&b.1q==a0?b:{1J:c||!c&&a||D.1D(b)&&b,2u:b,41:c&&a||a&&a.1q!=9t&&a};d.2u=(d.2u&&d.2u.1q==4L?d.2u:D.28.5K[d.2u])||D.28.5K.74;d.5M=d.1J;d.1J=H(){G(d.36!==Q)D(7).5A();G(D.1D(d.5M))d.5M.1k(7)};I d},41:{73:H(p,n,b,a){I b+a*p},5P:H(p,n,b,a){I((-29.9r(p*29.9q)/2)+0.5)*a+b}},3O:[],48:U,28:H(b,c,a){7.15=c;7.T=b;7.1i=a;G(!c.3Z)c.3Z={}}});D.28.44={4D:H(){G(7.15.2Y)7.15.2Y.1k(7.T,7.1z,7);(D.28.2Y[7.1i]||D.28.2Y.4w)(7);G(7.1i=="1Z"||7.1i=="2h")7.T.V.18="3I"},1t:H(a){G(7.T[7.1i]!=U&&7.T.V[7.1i]==U)I 7.T[7.1i];J r=3d(D.1g(7.T,7.1i,a));I r&&r>-9p?r:3d(D.2a(7.T,7.1i))||0},3G:H(c,b,d){7.5V=1z();7.2b=c;7.3l=b;7.2M=d||7.2M||"2X";7.1z=7.2b;7.2S=7.4N=0;7.4D();J e=7;H t(a){I e.2Y(a)}t.T=7.T;D.3O.1p(t);G(D.48==U){D.48=4I(H(){J a=D.3O;R(J i=0;i<a.K;i++)G(!a[i]())a.7n(i--,1);G(!a.K){7k(D.48);D.48=U}},13)}},1N:H(){7.15.3Z[7.1i]=D.1K(7.T.V,7.1i);7.15.1N=M;7.3G(0,7.1t());G(7.1i=="2h"||7.1i=="1Z")7.T.V[7.1i]="9m";D(7.T).1N()},1M:H(){7.15.3Z[7.1i]=D.1K(7.T.V,7.1i);7.15.1M=M;7.3G(7.1t(),0)},2Y:H(a){J t=1z();G(a||t>7.15.2u+7.5V){7.1z=7.3l;7.2S=7.4N=1;7.4D();7.15.45[7.1i]=M;J b=M;R(J i 1n 7.15.45)G(7.15.45[i]!==M)b=Q;G(b){G(7.15.18!=U){7.T.V.33=7.15.33;7.T.V.18=7.15.18;G(D.1g(7.T,"18")=="2F")7.T.V.18="3I"}G(7.15.1M)7.T.V.18="2F";G(7.15.1M||7.15.1N)R(J p 1n 7.15.45)D.1K(7.T.V,p,7.15.3Z[p])}G(b)7.15.1J.1k(7.T);I Q}N{J n=t-7.5V;7.4N=n/7.15.2u;7.2S=D.41[7.15.41||(D.41.5P?"5P":"73")](7.4N,n,0,1,7.15.2u);7.1z=7.2b+((7.3l-7.2b)*7.2S);7.4D()}I M}};D.1l(D.28,{5K:{9l:9j,9i:7e,74:9g},2Y:{2e:H(a){a.T.2e=a.1z},2c:H(a){a.T.2c=a.1z},1y:H(a){D.1K(a.T.V,"1y",a.1z)},4w:H(a){a.T.V[a.1i]=a.1z+a.2M}}});D.17.2i=H(){J b=0,1S=0,T=7[0],3q;G(T)ao(D.14){J d=T.1d,4a=T,1s=T.1s,1Q=T.2z,5U=2k&&3r(5B)<9c&&!/9a/i.11(v),1g=D.2a,3c=1g(T,"30")=="3c";G(T.7y){J c=T.7y();1e(c.1A+29.2f(1Q.1C.2e,1Q.1c.2e),c.1S+29.2f(1Q.1C.2c,1Q.1c.2c));1e(-1Q.1C.6b,-1Q.1C.6a)}N{1e(T.5X,T.5W);1B(1s){1e(1s.5X,1s.5W);G(42&&!/^t(98|d|h)$/i.11(1s.2j)||2k&&!5U)2C(1s);G(!3c&&1g(1s,"30")=="3c")3c=M;4a=/^1c$/i.11(1s.2j)?4a:1s;1s=1s.1s}1B(d&&d.2j&&!/^1c|2K$/i.11(d.2j)){G(!/^96|1T.*$/i.11(1g(d,"18")))1e(-d.2e,-d.2c);G(42&&1g(d,"33")!="4j")2C(d);d=d.1d}G((5U&&(3c||1g(4a,"30")=="5x"))||(42&&1g(4a,"30")!="5x"))1e(-1Q.1c.5X,-1Q.1c.5W);G(3c)1e(29.2f(1Q.1C.2e,1Q.1c.2e),29.2f(1Q.1C.2c,1Q.1c.2c))}3q={1S:1S,1A:b}}H 2C(a){1e(D.2a(a,"6V",M),D.2a(a,"6U",M))}H 1e(l,t){b+=3r(l,10)||0;1S+=3r(t,10)||0}I 3q};D.17.1l({30:H(){J a=0,1S=0,3q;G(7[0]){J b=7.1s(),2i=7.2i(),4c=/^1c|2K$/i.11(b[0].2j)?{1S:0,1A:0}:b.2i();2i.1S-=25(7,\'94\');2i.1A-=25(7,\'aF\');4c.1S+=25(b,\'6U\');4c.1A+=25(b,\'6V\');3q={1S:2i.1S-4c.1S,1A:2i.1A-4c.1A}}I 3q},1s:H(){J a=7[0].1s;1B(a&&(!/^1c|2K$/i.11(a.2j)&&D.1g(a,\'30\')==\'93\'))a=a.1s;I D(a)}});D.P([\'5e\',\'5G\'],H(i,b){J c=\'4y\'+b;D.17[c]=H(a){G(!7[0])I;I a!=12?7.P(H(){7==1b||7==S?1b.92(!i?a:D(1b).2e(),i?a:D(1b).2c()):7[c]=a}):7[0]==1b||7[0]==S?46[i?\'aI\':\'aJ\']||D.71&&S.1C[c]||S.1c[c]:7[0][c]}});D.P(["6N","4b"],H(i,b){J c=i?"5e":"5G",4f=i?"6k":"6i";D.17["5s"+b]=H(){I 7[b.3y()]()+25(7,"57"+c)+25(7,"57"+4f)};D.17["90"+b]=H(a){I 7["5s"+b]()+25(7,"2C"+c+"4b")+25(7,"2C"+4f+"4b")+(a?25(7,"6S"+c)+25(7,"6S"+4f):0)}})})();',62,669,'|||||||this|||||||||||||||||||||||||||||||||||if|function|return|var|length|data|true|else|type|each|false|for|document|elem|null|style|event||nodeName|||test|undefined||browser|options|nodeType|fn|display|arguments|url|window|body|parentNode|add|msie|css|indexOf|prop|typeof|call|extend|script|in|replace|push|constructor|text|offsetParent|cur|status|div|apply|firstChild|opacity|now|left|while|documentElement|isFunction|filter|className|hidden|handle|match|complete|attr|ret|hide|show|dataType|trigger|doc|split|top|table|try|catch|success|break|cache|height||remove|tbody|string|guid|num|global|ready|fx|Math|curCSS|start|scrollTop|makeArray|scrollLeft|max|animate|width|offset|tagName|safari|map|toggle||done|Array|find|toUpperCase|button|special|duration|id|copy|value|handler|ownerDocument|select|new|border|exec|stack|none|opera|nextSibling|pushStack|target|html|inArray|unit|xml|bind|GET|isReady|merge|pos|timeout|delete|one|selected|px|step|jsre|position|async|preventDefault|overflow|name|which|queue|removeChild|namespace|insertBefore|nth|removeData|fixed|parseFloat|error|readyState|multiFilter|createElement|rl|re|trim|end|_|param|first|get|results|parseInt|slice|childNodes|encodeURIComponent|append|events|elems|toLowerCase|json|readyList|setTimeout|grep|mouseenter|color|is|custom|getElementsByTagName|block|stopPropagation|addEventListener|callee|proxy|mouseleave|timers|defaultView|password|disabled|last|has|appendChild|form|domManip|props|ajax|orig|set|easing|mozilla|load|prototype|curAnim|self|charCode|timerId|object|offsetChild|Width|parentOffset|src|unbind|br|currentStyle|clean|float|visible|relatedTarget|previousSibling|handlers|isXMLDoc|on|setup|nodeIndex|unique|shift|javascript|child|RegExp|_default|deep|scroll|lastModified|teardown|setRequestHeader|timeStamp|update|empty|tr|getAttribute|innerHTML|setInterval|checked|fromElement|Number|jQuery|state|active|jsonp|accepts|application|dir|input|responseText|click|styleSheets|unload|not|lastToggle|outline|mouseout|getPropertyValue|mouseover|getComputedStyle|bindReady|String|padding|pageX|metaKey|keyCode|getWH|andSelf|clientX|Left|all|visibility|container|index|init|triggered|removeAttribute|classFilter|prevObject|submit|file|after|windowData|inner|client|globalEval|sibling|jquery|absolute|clone|wrapAll|dequeue|version|triggerHandler|oldblock|ctrlKey|createTextNode|Top|handleError|getResponseHeader|parsererror|speeds|checkbox|old|00|radio|swing|href|Modified|ifModified|lastChild|safari2|startTime|offsetTop|offsetLeft|username|location|ajaxSettings|getElementById|isSimple|values|selectedIndex|runtimeStyle|rsLeft|_load|loaded|DOMContentLoaded|clientTop|clientLeft|toElement|srcElement|val|pageY|POST|unshift|Bottom|clientY|Right|fix|exclusive|detachEvent|cloneNode|removeEventListener|swap|toString|join|attachEvent|eval|substr|head|parse|textarea|reset|image|zoom|odd|even|before|prepend|exclude|expr|quickClass|quickID|uuid|quickChild|continue|Height|textContent|appendTo|contents|open|margin|evalScript|borderTopWidth|borderLeftWidth|parent|httpData|setArray|CSS1Compat|compatMode|boxModel|cssFloat|linear|def|webkit|nodeValue|speed|_toggle|eq|100|replaceWith|304|concat|200|alpha|Last|httpNotModified|getAttributeNode|httpSuccess|clearInterval|abort|beforeSend|splice|styleFloat|throw|colgroup|XMLHttpRequest|ActiveXObject|scriptCharset|callback|fieldset|multiple|processData|getBoundingClientRect|contentType|link|ajaxSend|ajaxSuccess|ajaxError|col|ajaxComplete|ajaxStop|ajaxStart|serializeArray|notmodified|keypress|keydown|change|mouseup|mousedown|dblclick|focus|blur|stylesheet|hasClass|rel|doScroll|black|hover|solid|cancelBubble|returnValue|wheelDelta|view|round|shiftKey|resize|screenY|screenX|relatedNode|mousemove|prevValue|originalTarget|offsetHeight|keyup|newValue|offsetWidth|eventPhase|detail|currentTarget|cancelable|bubbles|attrName|attrChange|altKey|originalEvent|charAt|0n|substring|animated|header|noConflict|line|enabled|innerText|contains|only|weight|font|gt|lt|uFFFF|u0128|size|417|Boolean|Date|toggleClass|removeClass|addClass|removeAttr|replaceAll|insertAfter|prependTo|wrap|contentWindow|contentDocument|iframe|children|siblings|prevAll|wrapInner|nextAll|outer|prev|scrollTo|static|marginTop|next|inline|parents|able|cellSpacing|adobeair|cellspacing|522|maxLength|maxlength|readOnly|400|readonly|fast|600|class|slow|1px|htmlFor|reverse|10000|PI|cos|compatible|Function|setData|ie|ra|it|rv|getData|userAgent|navigator|fadeTo|fadeIn|slideToggle|slideUp|slideDown|ig|responseXML|content|1223|NaN|fadeOut|300|protocol|send|setAttribute|option|dataFilter|cssText|changed|be|Accept|stop|With|Requested|Object|can|GMT|property|1970|Jan|01|Thu|Since|If|Type|Content|XMLHTTP|th|Microsoft|td|onreadystatechange|onload|cap|charset|colg|host|tfoot|specified|with|1_|thead|leg|plain|attributes|opt|embed|urlencoded|www|area|hr|ajaxSetup|meta|post|getJSON|getScript|marginLeft|img|elements|pageYOffset|pageXOffset|abbr|serialize|pixelLeft'.split('|'),0,{}));// $Id: drupal.js,v 1.41.2.4 2009/07/21 08:59:10 goba Exp $
 
 var Drupal = Drupal || { 'settings': {}, 'behaviors': {}, 'themes': {}, 'locale': {} };
 
@@ -13,14 +12,6 @@ Drupal.attachBehaviors = function(context) {
       this(context);
     });
   }
-};
-
-Drupal.theme = function(func) {
-  for (var i = 1, args = []; i < arguments.length; i++) {
-    args.push(arguments[i]);
-  }
-
-  return (Drupal.theme[func] || Drupal.theme.prototype[func]).apply(this, args);
 };
 
 

diff --git a/app/assets/stylesheets/static/static.css.scss b/app/assets/stylesheets/static/static.css.scss
@@ -96,11 +96,11 @@ p {
   margin-top: 40px;
 }
 
-#jr_login_button {
+#right_buttons {
   float: right;
-  text-align: right;
-  margin-right: 15px;
-  margin-top: 120px;
+  margin-right: 10px;
+  margin-top: 50px;
+  width: 250px;
 }
 
 .content {

diff --git a/app/controllers/absents_controller.rb b/app/controllers/absents_controller.rb
@@ -30,7 +30,7 @@ class AbsentsController < ApplicationController
     respond_to do |format|
       if @absent.save
         AbsentMailer.gym_notification(@absent).deliver
-        format.html { redirect_to root_path, notice: 'Your absent notification has been submitted.' }
+        format.html { redirect_to thankyou_path, notice: 'Your absent notification has been submitted.' }
         format.json { render json: absents_path, status: :created, location: @absent }
       else
         format.html { render action: "new" }
